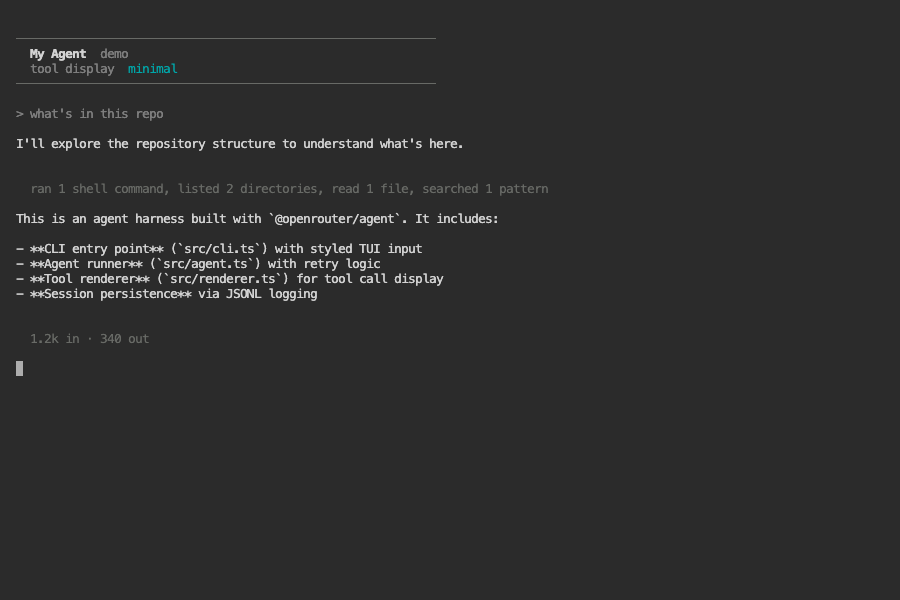
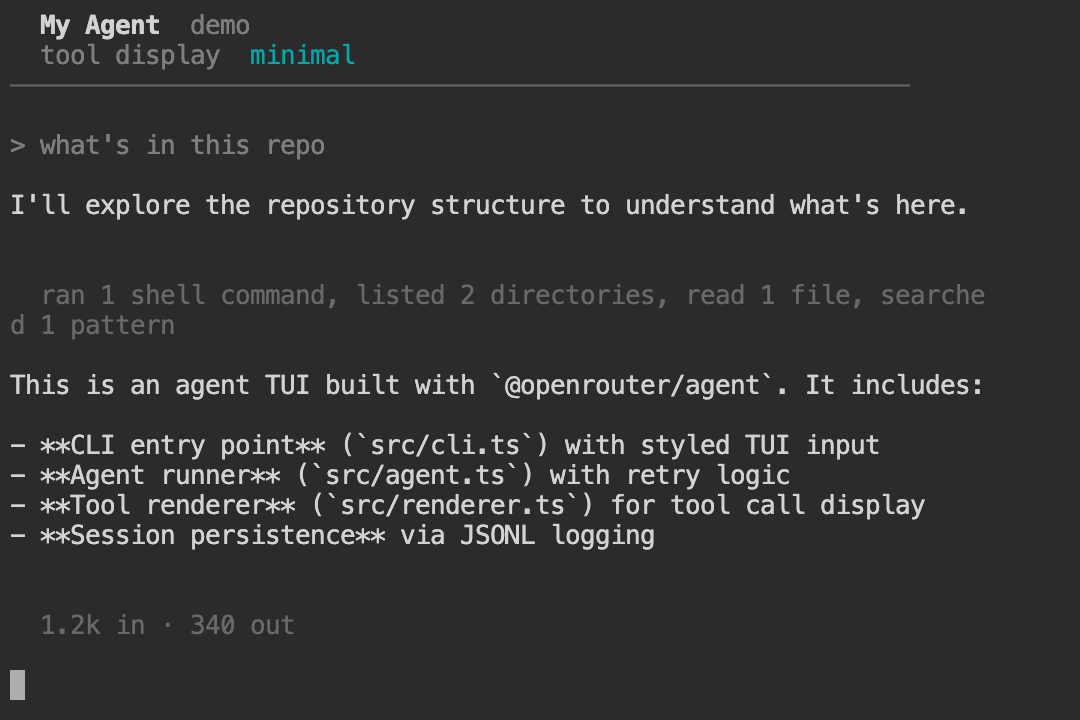
fix(create-agent-tui): retina-quality screenshots via deviceScaleFactor: 2
Screenshots were blurry at 1x resolution. Key changes:
- Set deviceScaleFactor: 2 for crisp retina PNGs
- Use headless: false (required for ttyd WebSocket rendering)
- Shrink viewport to 540x360 so content fills the frame
- Remove CSS injection — ttyd renders natively
- Fresh browser per screenshot to prevent state leaks
- Add demo-input.ts with async sleep delays for ttyd streaming
- Add input style screenshots (block, bordered, plain)

diff --git a/skills/create-agent-tui/sample/src/screenshot-demos.ts b/skills/create-agent-tui/sample/src/screenshot-demos.ts
@@ -1,47 +1,55 @@
 import { chromium } from 'playwright';
-import { execSync, spawn } from 'child_process';
+import { spawn } from 'child_process';
 import { resolve } from 'path';
 
-const STYLES = ['emoji', 'grouped', 'minimal'] as const;
-const PORT_BASE = 7690;
 const SAMPLE_DIR = resolve(import.meta.dirname, '..');
+const SCREENSHOTS_DIR = resolve(SAMPLE_DIR, 'screenshots');
+const PORT_BASE = 7750;
 
-async function screenshotStyle(style: string, port: number): Promise<void> {
+async function captureDemo(name: string, script: string, args: string[], port: number): Promise<void> {
   const ttyd = spawn('ttyd', [
-    '--port', String(port),
-    'npx', 'tsx', 'src/demo-tools.ts', style,
+    '--port', String(port), '--writable',
+    'npx', 'tsx', script, ...args,
   ], { cwd: SAMPLE_DIR, stdio: 'ignore' });
 
-  await new Promise((r) => setTimeout(r, 1500));
+  await new Promise((r) => setTimeout(r, 3000));
 
-  const browser = await chromium.launch();
-  const page = await browser.newPage({ viewport: { width: 900, height: 600 } });
-  await page.goto(`http://localhost:${port}`);
-  await page.waitForTimeout(3000);
-
-  await page.evaluate(() => {
-    document.body.style.background = '#1a1b26';
-    const term = document.querySelector('.xterm') as HTMLElement;
-    if (term) term.style.padding = '16px';
+  const browser = await chromium.launch({ headless: false });
+  const page = await browser.newPage({
+    viewport: { width: 540, height: 360 },
+    deviceScaleFactor: 2,
   });
-  await page.waitForTimeout(500);
+  await page.goto(`http://localhost:${port}`);
+  await page.waitForTimeout(8000);
 
-  const outPath = resolve(SAMPLE_DIR, 'screenshots', `tool-display-${style}.png`);
+  const outPath = resolve(SCREENSHOTS_DIR, `${name}.png`);
   await page.screenshot({ path: outPath, fullPage: false });
-  console.log(`Saved: ${outPath}`);
+  console.log(`  saved ${name}.png`);
 
   await browser.close();
   ttyd.kill();
-  await new Promise((r) => setTimeout(r, 300));
+  await new Promise((r) => setTimeout(r, 1000));
 }
 
 async function main() {
-  for (let i = 0; i < STYLES.length; i++) {
-    const style = STYLES[i];
-    console.log(`Screenshotting ${style}...`);
-    await screenshotStyle(style, PORT_BASE + i);
+  const TOOL_STYLES = ['emoji', 'grouped', 'minimal'] as const;
+  const INPUT_STYLES = ['block', 'bordered', 'plain'] as const;
+
+  console.log('Tool display styles:');
+  for (let i = 0; i < TOOL_STYLES.length; i++) {
+    const style = TOOL_STYLES[i];
+    process.stdout.write(`  capturing ${style}...`);
+    await captureDemo(`tool-display-${style}`, 'src/demo-tools.ts', [style], PORT_BASE + i);
   }
-  console.log('Done!');
+
+  console.log('\nInput styles:');
+  for (let i = 0; i < INPUT_STYLES.length; i++) {
+    const style = INPUT_STYLES[i];
+    process.stdout.write(`  capturing ${style}...`);
+    await captureDemo(`input-style-${style}`, 'src/demo-input.ts', [style], PORT_BASE + 10 + i);
+  }
+
+  console.log('\nDone! 6 screenshots generated.');
 }
 
 main();

diff --git a/skills/create-agent-tui/sample/src/demo-input.ts b/skills/create-agent-tui/sample/src/demo-input.ts
@@ -1,0 +1,60 @@
+const RESET = '\x1b[0m';
+const DIM = '\x1b[2m';
+const BOLD = '\x1b[1m';
+const CYAN = '\x1b[36m';
+const GREEN = '\x1b[32m';
+const GRAY = '\x1b[90m';
+const WHITE = '\x1b[97m';
+
+const style = process.argv[2] ?? 'block';
+const COLUMNS = process.stdout.columns || parseInt(process.env.COLUMNS || '') || 80;
+
+function sleep(ms: number) {
+  return new Promise((r) => setTimeout(r, ms));
+}
+
+async function run() {
+  const line = GRAY + '─'.repeat(Math.min(COLUMNS, 100)) + RESET;
+
+  await sleep(100);
+  console.log();
+  console.log(line);
+  await sleep(50);
+  console.log(`  ${BOLD}My Agent${RESET}  ${DIM}demo${RESET}`);
+  await sleep(50);
+  console.log(`  ${DIM}input style${RESET}  ${CYAN}${style}${RESET}`);
+  console.log(line);
+  await sleep(50);
+  console.log(`  ${DIM}Type a message to start. "exit" to quit.${RESET}`);
+  console.log();
+  await sleep(50);
+
+  switch (style) {
+    case 'block': {
+      const bg = '\x1b[48;2;40;42;54m';
+      process.stdout.write(`\n${bg}\x1b[K${RESET}\n`);
+      await sleep(50);
+      process.stdout.write(`${bg}\x1b[K ${WHITE}›${RESET}${bg}${WHITE} ${RESET}\n`);
+      await sleep(50);
+      process.stdout.write(`${bg}\x1b[K${RESET}\n`);
+      break;
+    }
+    case 'bordered': {
+      const border = `${GRAY}${'─'.repeat(COLUMNS)}${RESET}`;
+      process.stdout.write(`\n${border}\n`);
+      await sleep(50);
+      process.stdout.write(`› \n`);
+      await sleep(50);
+      process.stdout.write(`${border}\n`);
+      break;
+    }
+    case 'plain': {
+      process.stdout.write(`\n${GREEN}>${RESET} \n`);
+      break;
+    }
+  }
+
+  await sleep(10000);
+}
+
+run();
